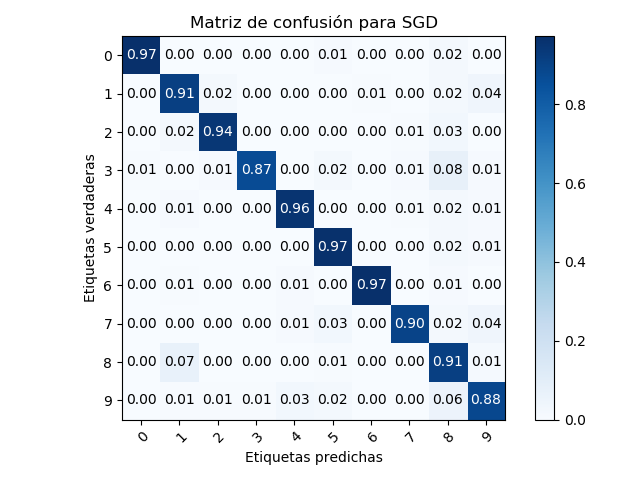
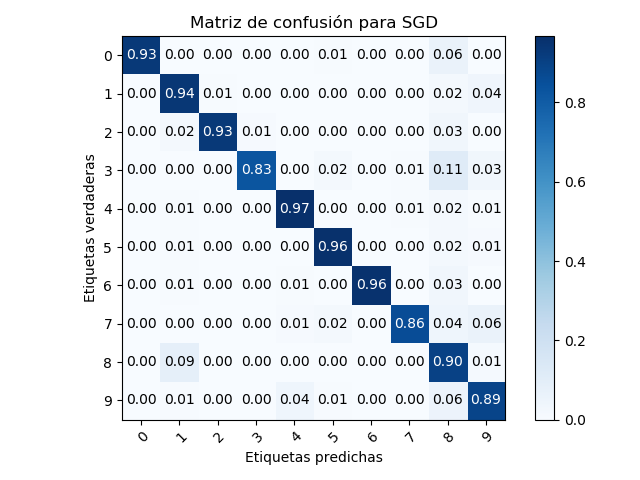
Sigo avanzando en la práctica

diff --git a/P3/doc/P3-Balderas-Ruiz-Luis.tex b/P3/doc/P3-Balderas-Ruiz-Luis.tex
@@ -169,21 +169,21 @@ Todas ellas generan una visión más precisa de cómo ha sido nuestra clasificac
 
 Esta práctica está centrada en la utilización de modelos lineales. Por tanto, el primer clasificador que voy a utilizar es SGDClassifier de SKLearn (\cite{SGD-C}), esto  es, un modelo lineal basado en gradiente descendente estocástico. Para garantizar una generalización correcta por parte del modelo, utilizo validación cruzada estratificada con 10 particiones(\cite{stk}). Los resultados de los 10 entrenamientos con las distintas particiones son los siguientes: \\
 
-[(1):0.96623376623376622, (2):0.96103896103896103, (3):0.94791666666666663, (4):0.96354166666666663, (5):0.9453125, (6):0.953125, (7):0.93455497382198949, (8):0.9683377308707124, (9):0.9683377308707124, (10):0.95490716180371349] \\
+[0.9584415584415584, 0.948051948051948, 0.9505208333333334, 0.953125, 0.9401041666666666, 0.9348958333333334, 0.9345549738219895, 0.9366754617414248, 0.9472295514511874, 0.9575596816976127] \\
 
 
 con los siguientes resultados estadísticos:
 
 \begin{itemize}
-	\item Media: 0.95633061579731893
-	\item Varianza: 0.00012658399732657117
-	\item Mínimo: 0.93455497382198949
-	\item Máximo: 0.9683377308707124
+	\item Media: 0.9461159008539054
+	\item Varianza: 8.235657110431097e-05
+	\item Mínimo: 0.9345549738219895
+	\item Máximo: 0.9584415584415584
 \end{itemize}
 
 Por tanto, se puede comprobar que se está generalizando bien por la varianza tan pequeña generada y los resultados adquieren mayor credibilidad. Queda tan solo evaluarla en el conjunto de test: \\
 
-\textbf{Accuracy fuera de la muestra:} 0.927657206455.
+\textbf{Accuracy fuera de la muestra:} 0.9170840289371174.
 
 A continuación, muestro la matriz de confusión:
 
@@ -201,17 +201,17 @@ Para acompañar estas medidas, muestro el resumen completo:
 	\begin{tabular}{|c|c|c|c|c|}
 		\hline
 		& Precision & Recall & F1-Score & Support \\ \hline
-		0         & 0.99      & 0.98   & 0.99     & 178     \\ \hline
-		1         & 0.86      & 0.91   & 0.88     & 182     \\ \hline
+		0         & 1.00      & 0.93   & 0.97     & 178     \\ \hline
+		1         & 0.88      & 0.94   & 0.91     & 182     \\ \hline
 		2         & 0.99      & 0.93   & 0.96     & 177     \\ \hline
-		3         & 0.98      & 0.89   & 0.93     & 183     \\ \hline
-		4         & 0.93      & 0.96   & 0.95     & 181     \\ \hline
-		5         & 0.92      & 0.98   & 0.95     & 182     \\ \hline
-		6         & 0.99      & 0.98   & 0.99     & 181     \\ \hline
-		7         & 0.98      & 0.88   & 0.93     & 179     \\ \hline
-		8         & 0.81      & 0.89   & 0.85     & 174     \\ \hline
-		9         & 0.85      & 0.88   & 0.86     & 180     \\ \hline
-		avg/total & 0.93      & 0.93   & 0.93     & 1797    \\ \hline
+		3         & 0.99      & 0.83   & 0.90     & 183     \\ \hline
+		4         & 0.94      & 0.97   & 0.95     & 181     \\ \hline
+		5         & 0.95      & 0.96   & 0.96     & 182     \\ \hline
+		6         & 1.00      & 0.96   & 0.98     & 181     \\ \hline
+		7         & 0.99      & 0.86   & 0.92     & 179     \\ \hline
+		8         & 0.69      & 0.90   & 0.78     & 174     \\ \hline
+		9         & 0.85      & 0.89   & 0.87     & 180     \\ \hline
+		avg/total & 0.93      & 0.92   & 0.92     & 1797    \\ \hline
 	\end{tabular}
 	\caption{Resultados finales de la clasificación con modelo lineal SGD}
 \end{table}
@@ -255,15 +255,15 @@ Finalmente, muestro un resumen de la clasificación por cada una de las clases:
 
 \newpage
 
-Por último, evalúo el algoritmo SVM (\cite{svc}). Lo primero que hay que hacer es elegir los parámetros con los que se ejecutará el algoritmo. Es necesario elegir $C$ (parámetro de penalización para el término del error), $kernel$ y $gamma$ (coeficiente para el núcleo). Para elegir el mejor conjunto de coeficientes, llevo a cabo un GridSearch con validación cruzada de 10 particiones, asegurando así que elijo los mejores parámetros independientemente de la partición que se haga en los datos. Dicho proceso es costoso computacionalmente y requiere un tiempo (alrededor de un minuto, dependiendo del ordenador donde se ejecute). Los mejores resultados son los siguientes:
+Por último, evalúo el algoritmo SVM (\cite{svc}). Lo primero que hay que hacer es elegir los parámetros con los que se ejecutará el algoritmo. Es necesario elegir $C$ (parámetro de penalización para el término del error), $kernel$ y $gamma$ (coeficiente para el núcleo). Para elegir el mejor conjunto de coeficientes, llevo a cabo un GridSearch con validación cruzada de 10 particiones, asegurando así que elijo los mejores parámetros independientemente de la partición que se haga en los datos. Dicho proceso es costoso computacionalmente y requiere un tiempo (alrededor de unos minutos, dependiendo del ordenador donde se ejecute). Los mejores resultados son los siguientes:
 
-$$ C = 0.01$$
-$$ \gamma = 1^{-9} $$
-$$ kernel = linear $$
+$$ C = 1000000$$
+$$ \gamma = 1^{-5} $$
+$$ kernel = rbf $$
 
 Con dichos parámetros, se obtienen los siguientes resultados: \\
 
-\textbf{Accuracy fuera de la muestra:} 0.956594323873 \\
+\textbf{Accuracy fuera de la muestra:}  0.9577072899276572\\
 
 Matriz de confusión:
 
@@ -283,16 +283,16 @@ Resumen de la clasificación:
 	\begin{tabular}{|c|c|c|c|c|}
 		\hline
 		& Precision & Recall & F1-Score & Support \\ \hline
-		0         & 0.99      & 0.99   & 0.99     & 178     \\ \hline
-		1         & 0.90      & 0.97   & 0.94     & 182     \\ \hline
-		2         & 0.96      & 0.97   & 0.96     & 177     \\ \hline
-		3         & 0.99      & 0.93   & 0.96     & 183     \\ \hline
-		4         & 0.97      & 0.98   & 0.98     & 181     \\ \hline
-		5         & 0.95      & 0.98   & 0.97     & 182     \\ \hline
+		0         & 0.99      & 1.00   & 0.99     & 178     \\ \hline
+		1         & 0.91      & 0.99   & 0.95     & 182     \\ \hline
+		2         & 0.98      & 0.96   & 0.97     & 177     \\ \hline
+		3         & 0.96      & 0.95   & 0.96     & 183     \\ \hline
+		4         & 0.95      & 0.99   & 0.97     & 181     \\ \hline
+		5         & 0.93      & 0.99   & 0.96     & 182     \\ \hline
 		6         & 1.00      & 0.98   & 0.99     & 181     \\ \hline
-		7         & 0.99      & 0.91   & 0.95     & 179     \\ \hline
-		8         & 0.96      & 0.89   & 0.92     & 174     \\ \hline
-		9         & 0.87      & 0.95   & 0.91     & 180     \\ \hline
+		7         & 1.00      & 0.91   & 0.95     & 179     \\ \hline
+		8         & 0.96      & 0.90   & 0.93     & 174     \\ \hline
+		9         & 0.92      & 0.89   & 0.91     & 180     \\ \hline
 		avg/total & 0.96      & 0.96   & 0.96     & 1797    \\ \hline
 	\end{tabular}
 	\caption{Resultados finales de la clasificación con SVM}
@@ -300,7 +300,7 @@ Resumen de la clasificación:
 
 \subsection{Conclusiones}
 
-A la vista de los resultados, podemos asegurar que el conjunto de datos se presta bien a ser separado de forma lineal, ya que las cotas de error (no mayores al 5\% de accuracy, pero también precision, recall o medida F1) son muy leves. Si estudiamos de forma más detenida las matrices de confusión, podemos encontrar el patrón de que la peor clasificación se produce entorno al número 8 (para regresión logística y SVM). En SGD, el peor resultado se encuentra en el número 3, muy confundido en el clasificador con el 8. En general, parece que la selección de características y la normalización han conseguido moldear un conjunto para dar lugar a una buena clasificación.
+A la vista de los resultados, podemos asegurar que el conjunto de datos se presta bien a ser separado de forma lineal, ya que las cotas de error (no mayores al 5\% de accuracy, pero también precision, recall o medida F1) son muy leves. Si estudiamos de forma más detenida las matrices de confusión, podemos ver que en SGD el número 3 es el que peores resultados arroja. La confusión viene con el número 8. Parece lógico pensar que, dadas las características del trazo de ambos números, se puedan confundir. Regresión logística mejora el rendimiento para el 3 y obtiene su peor resultado en el 8. Por último, SVM obtiene su peor resultado para el 9. A nivel general, podemos decir que la normalización y la selección de características vía PCA han conseguido generar unos datos susceptibles de ser separados por modelos lineales con grandes resultados.
 
 \newpage 
 \section{Airfoil self noise}

diff --git a/P3/handwritten.py b/P3/handwritten.py
@@ -11,7 +11,7 @@ from matplotlib import cm as cm
 from sklearn.decomposition import PCA
 from sklearn.linear_model import LogisticRegressionCV
 from sklearn import linear_model
-from sklearn.cross_validation import StratifiedKFold
+from sklearn.model_selection import StratifiedKFold
 from scipy import stats
 from sklearn.metrics import classification_report
 from sklearn.svm import SVC
@@ -202,10 +202,10 @@ print("Caso 1: SGDClassifier")
 
 print("Validación cruzada estratificada con 10 particiones para garantizar los resultados")
 # Validación cruzada
-skf = StratifiedKFold(Y_train_pca, n_folds = 10,shuffle = True)
+skf = StratifiedKFold(n_splits = 10,shuffle = True)
 
 scores = []
-for train_index, test_index in skf:
+for train_index, test_index in skf.split(X_train_pca1,Y_train_pca):
     clf = linear_model.SGDClassifier(max_iter=10000, tol = 1e-6)
     X_train = X_train_pca1[train_index]
     Y_train = Y_train_pca[train_index]
@@ -254,7 +254,7 @@ print("Regresión logística")
 print("Validación cruzada estratificada con 10 particiones para garantizar los resultados")
 # Validación cruzada
 
-logisticRegr = LogisticRegressionCV(cv=10, random_state = 77145416, multi_class = 'multinomial')
+logisticRegr = LogisticRegressionCV(cv=10, random_state = 77145416, multi_class = 'multinomial', max_iter=2500)
 logisticRegr.fit(X_train_pca1,Y_train_pca)
 
 input("\n--- Pulsa una tecla para continuar ---\n")
@@ -296,19 +296,20 @@ resultados = []
 for c in C_range:
     for g in gamma_range:
         for k in kernel:
-            skf = StratifiedKFold(Y_train_pca, n_folds = 10)
+            skf = StratifiedKFold(n_splits = 10,shuffle = True)
             scores = []
-            for train_index, test_index in skf:
+            for train_index, test_index in skf.split(X_train_pca1,Y_train_pca):
                 svmp = SVC(C=c, gamma = g, kernel= k)
                 X_train = X_train_pca1[train_index]
                 Y_train = Y_train_pca[train_index]
                 X_test1 = X_train_pca1[test_index]
                 Y_test1 = Y_train_pca[test_index]
                 svmp.fit(X_train,Y_train)
-                scores.append(clf.score(X_test1,Y_test1))
+                scores.append(svmp.score(X_test1,Y_test1))
             configuraciones.append([c,g,k])
             resultados.append(scores)
 
+print(resultados)
 mean_results = []
 
 for i in range(len(resultados)):
@@ -335,7 +336,7 @@ input("\n--- Pulsa una tecla para continuar ---\n")
 print("Matriz de confusión")
 
 np.set_printoptions(precision=2)
-plot_confusion_matrix(Y_test, prediccion, classes=nombres,normalize = True,title='Matriz de confusión para SVM')
+plot_confusion_matrix(Y_test, y_pred, classes=nombres,normalize = True,title='Matriz de confusión para SVM')
 plt.show()
 
 input("\n--- Pulsa una tecla para continuar ---\n")

diff --git a/P3/airfoil.py b/P3/airfoil.py
@@ -172,12 +172,85 @@ dataset = data
 X = dataset[:,0:4]
 Y = dataset[:,5]
 
+# Regresión con los datos tal y como los tenemos
+
 X_train, X_test, y_train, y_test = train_test_split(X,Y,test_size=0.2,random_state = 77145416)
 
 
-print("REGRESIÓN")
+print("REGRESIÓN SIN AÑADIR CARACTERÍSTICAS")
 
 
+print("Regresión lineal")
+clf = LinearRegression().fit(X_train,y_train)
+
+
+print("Coeficiente de R^2 asociado a la predicción dentro de la muestra")
+print(clf.score(X_train,y_train))
+input("\n--- Pulsa una tecla para continuar ---\n")
+# E_out
+
+prediccion = clf.predict(X_test)
+print("Accuracy fuera de la muestra", clf.score(X_test,y_test))
+
+input("\n--- Pulsa una tecla para continuar ---\n")
+
+print("ElasticNet")
+
+regr = ElasticNetCV(cv=10,random_state=77145416)
+regr.fit(X_train,y_train)
+print(regr.score(X_train,y_train))
+en_pred = regr.predict(X_test)
+
+print("Accuracy fuera de la muestra", regr.score(X_test,y_test))
+
+input("\n--- Pulsa una tecla para continuar ---\n")
+
+print("Redes neuronales")
+
+redes = MLPRegressor()
+redes.fit(X_train,y_train)
+print(redes.get_params())
+print("In R^2")
+print(redes.score(X_train,y_train))
+
+red_pred = redes.predict(X_test)
+print("Out R^2")
+print(redes.score(X_test,y_test))
+
+input("\n--- Pulsa una tecla para continuar ---\n")
+
+print("SVR")
+
+svr = SVR(C=1,epsilon=0.2)
+svr.fit(X_train,y_train)
+print("In R^2")
+print(svr.score(X_train,y_train))
+
+svr_pred = svr.predict(X_test)
+print("Out R^2")
+print(svr.score(X_test,y_test))
+
+input("\n--- Pulsa una tecla para continuar ---\n")
+
+#################################### PRUEBA ####################################
+# POLINOMIOS CON LAS CARACTERÍSTICAS
+
+from sklearn.preprocessing import PolynomialFeatures
+
+poly = PolynomialFeatures(3)
+X = poly.fit_transform(X)
+
+
+################################################################################
+
+
+X_train, X_test, y_train, y_test = train_test_split(X,Y,test_size=0.2,random_state = 77145416)
+
+
+print("REGRESIÓN AÑADIENDO CARACTERÍSTICAS POLINÓMICAS HASTA GRADO 3")
+
+
+print("Regresión lineal")
 clf = LinearRegression().fit(X_train,y_train)
 
 
